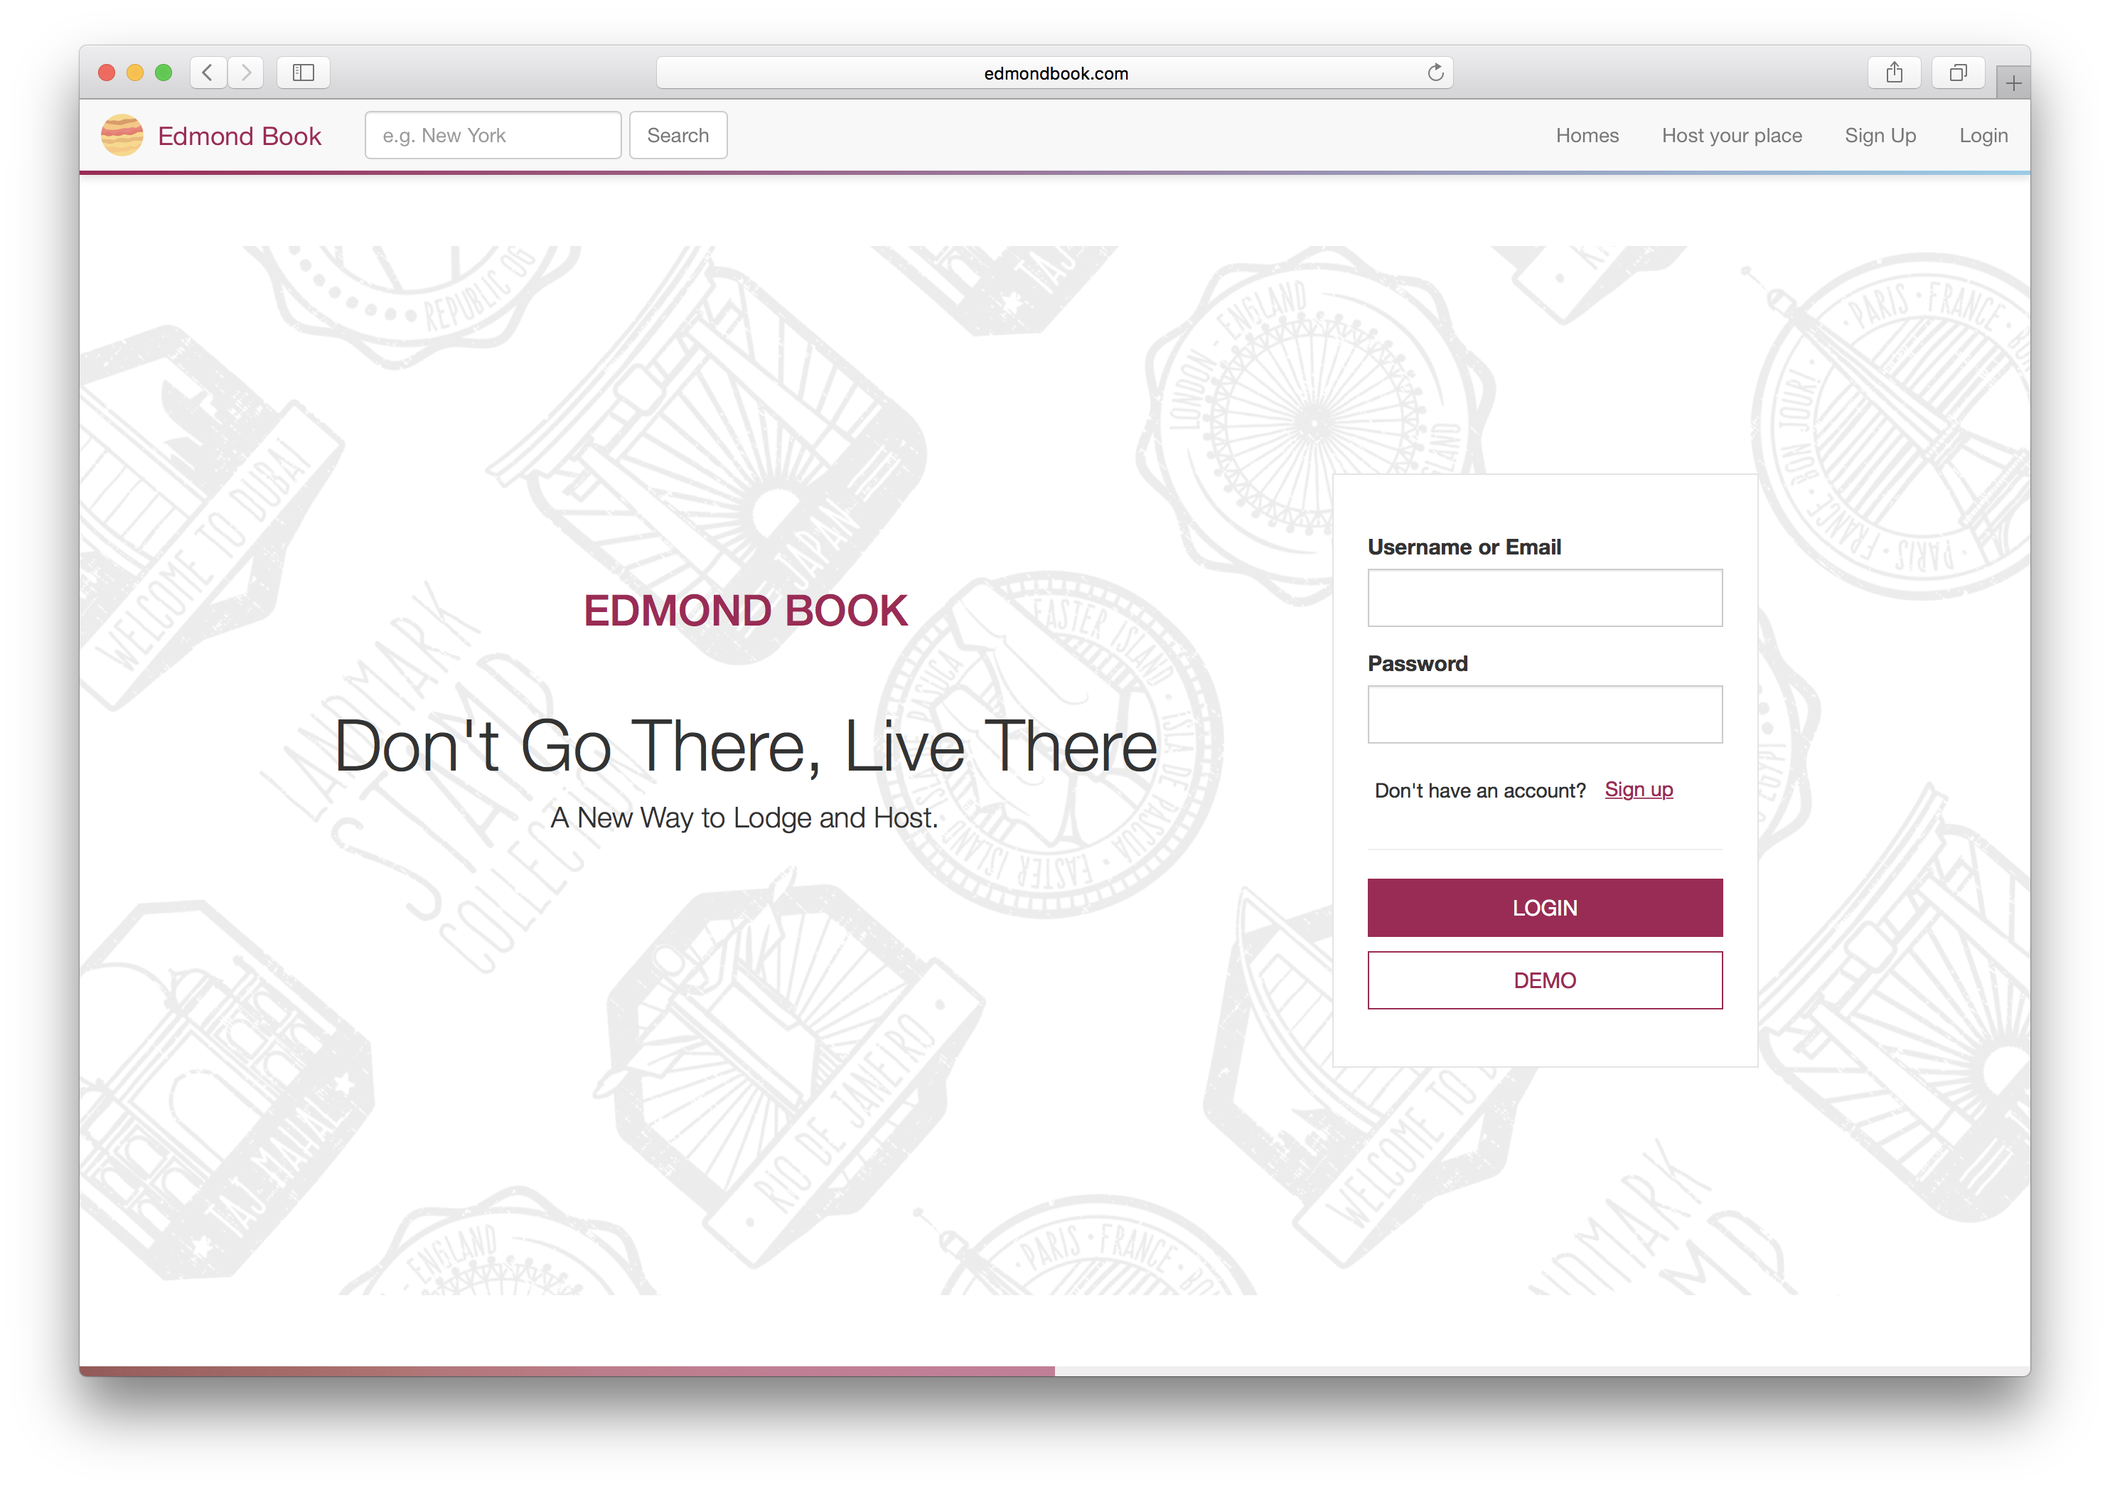
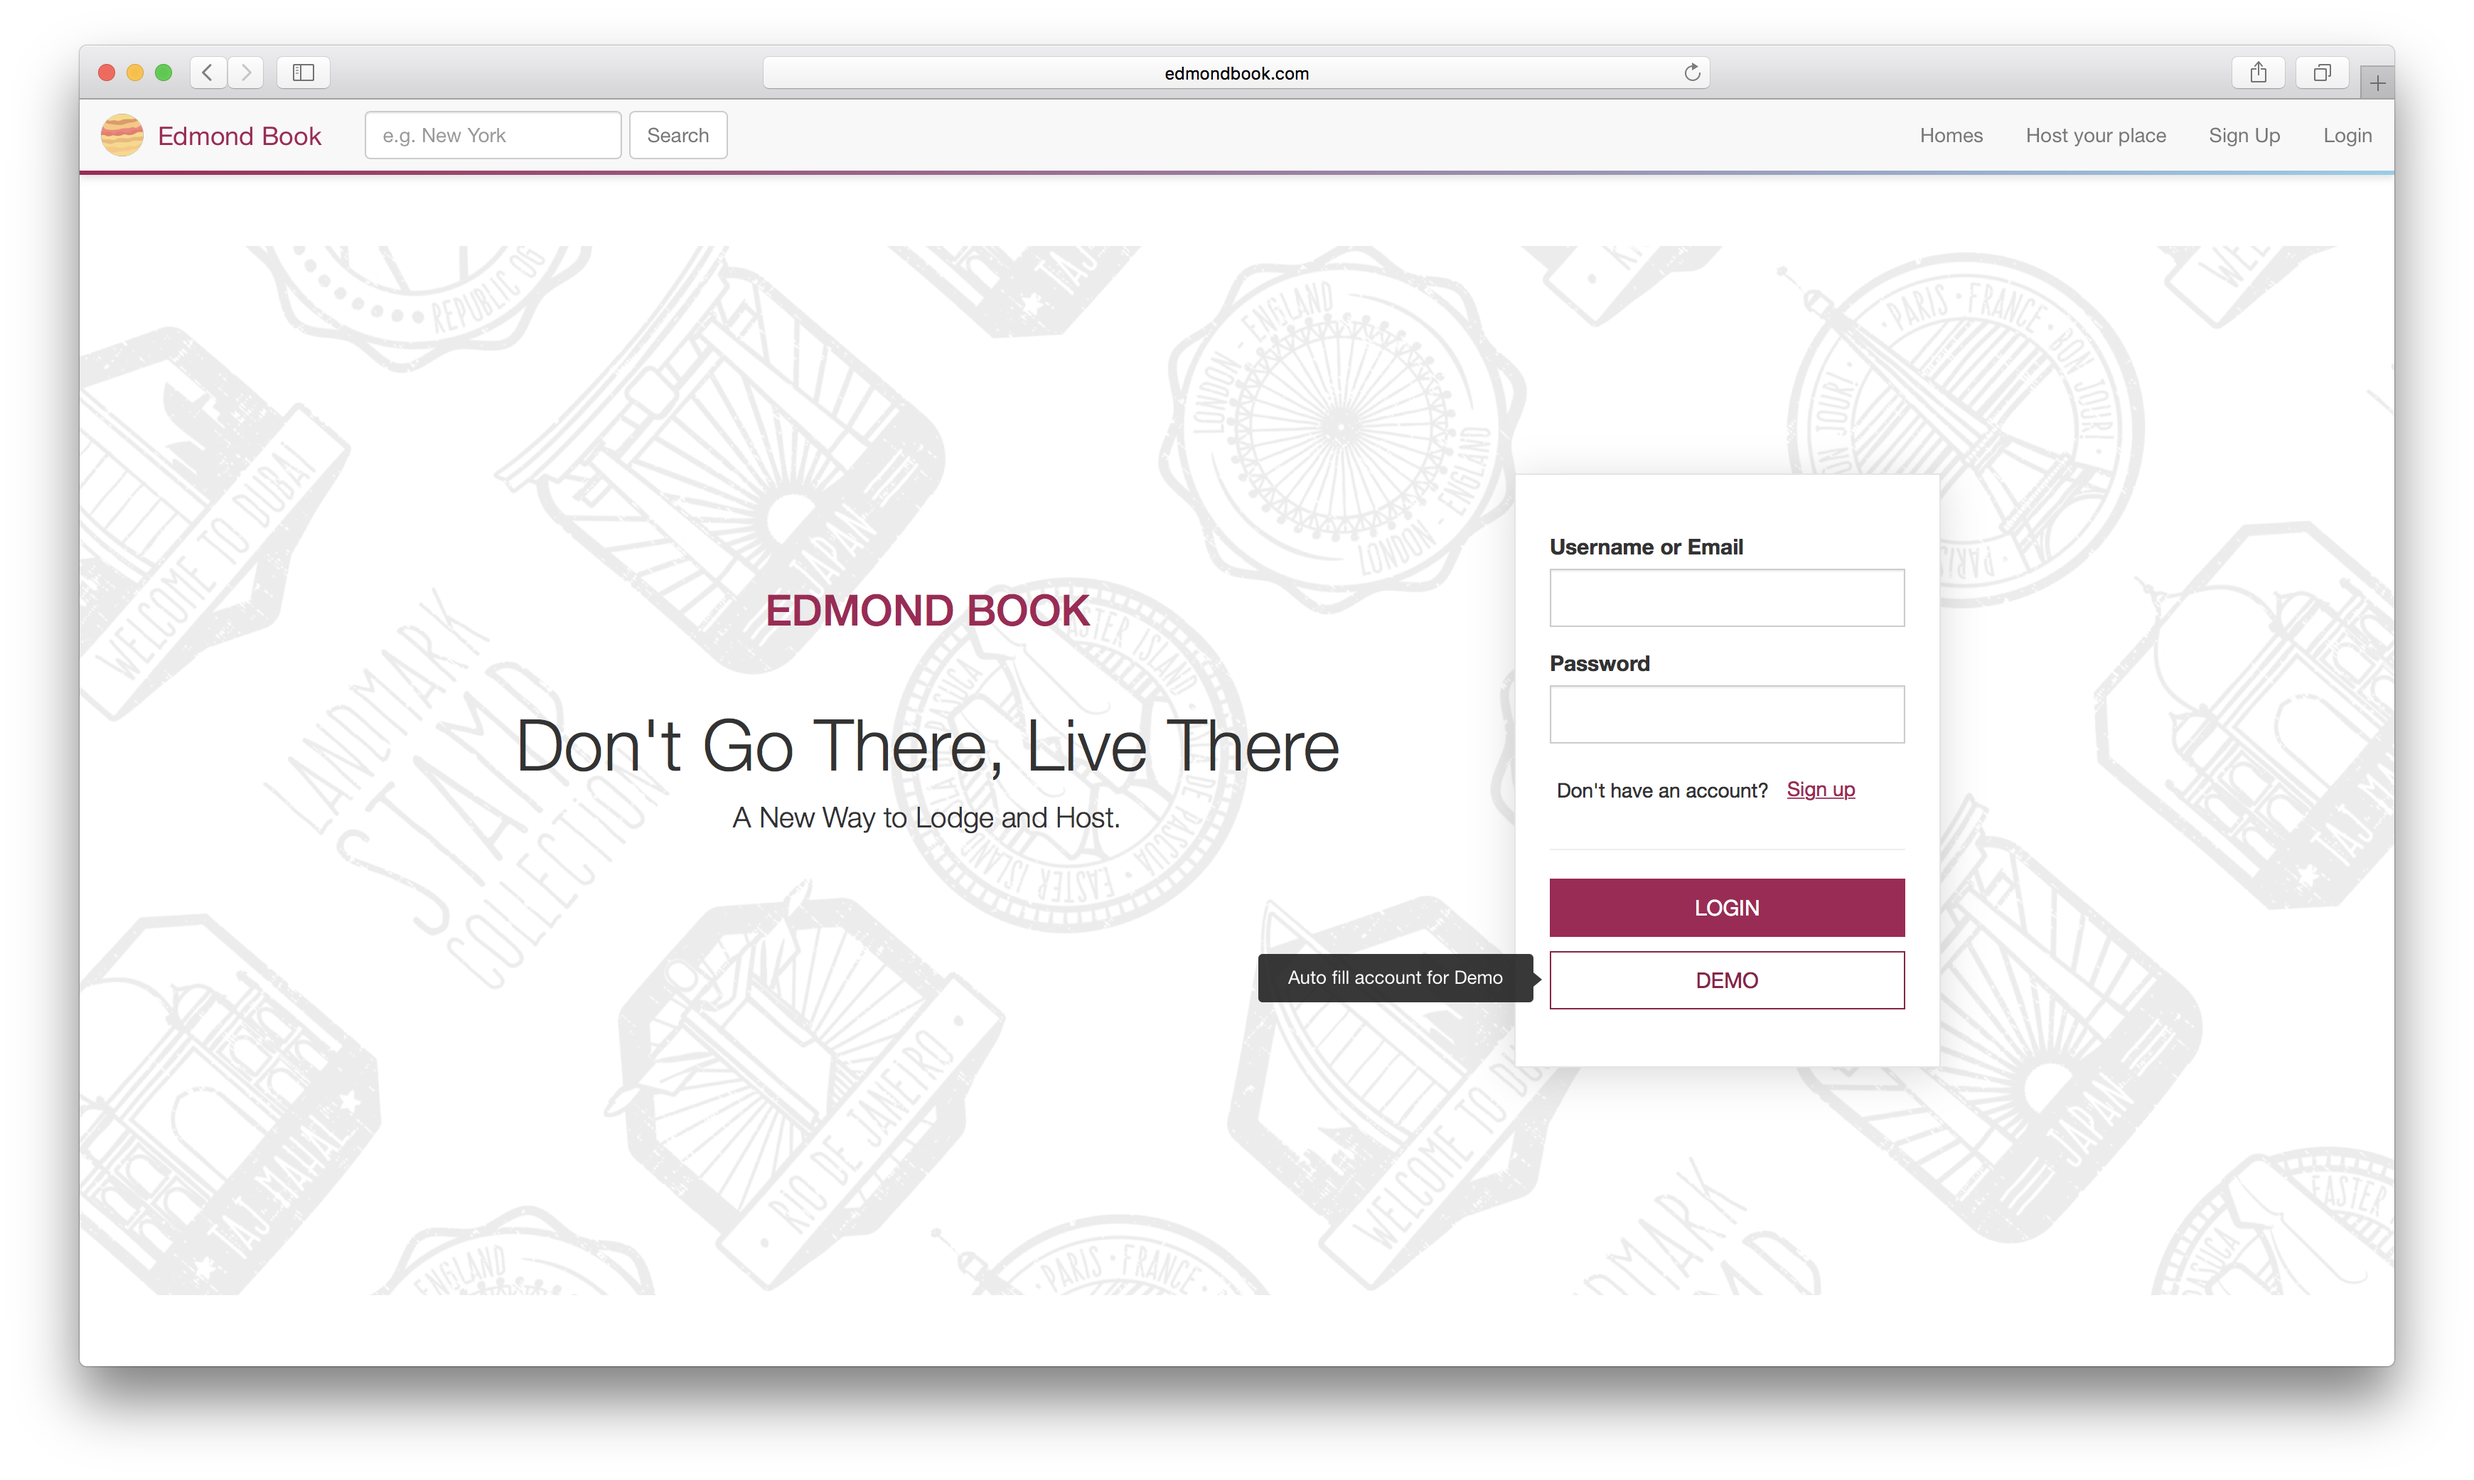
Add tooltip to book panel auto fill button. Update readme

diff --git a/frontend/components/homes/detail/DetailHomePage.js b/frontend/components/homes/detail/DetailHomePage.js
@@ -851,9 +851,18 @@ class DetailHomnePage extends React.Component {
                         onClick={e => {
                           this.autoFill(e);
                         }}
+                        data-tip="React-tooltip"
+                        data-for="book-autofill-tip"
                       >
                         Auto Fill
                       </button>
+                      <ReactTooltip
+                        id="book-autofill-tip"
+                        type="dark"
+                        effect="solid"
+                      >
+                        Auto fill data for Demo
+                      </ReactTooltip>
                     </div>
                   )}
                 </ReactCSSTransitionGroup>

diff --git a/README.md b/README.md
@@ -27,3 +27,21 @@ Node.js, Express, React, Redux, Sass, Webpack, Knex.js, Bookshelf
 On the homepage, from the navigation bar on the top, user can sign up or sign in account. A "Demo" account is provided. The logo on the top left can always redirect the user back to the homepage. The "Homes" button will lead users to browse all the homes which they can book. The "Host your place" button will lead users to the page where they can host their own homes.
 
 ![image of homepage](docs/img/homepage-navbar-signup.png)
+
+After signed in, the "Sign Up" and "Login" buttons will change to a badge which is the avatar of the user. The badge has a dropdown list including "Manage Host", "My Trips", "Wishlist", "Edit User Profile", "Log Out" options with respective functions.
+
+The website takes username or email address as unique identifier. Either one can be accpected for login. The password verification is done in encryption, no password will be saved in the database.
+
+![image of homepage after signed in](docs/img/homepage-navbar-logged.png)
+
+### Homes
+
+This page will show all the events from the database, supported with a search function. User can easily find a specific home typing keywords, (e.g. New York City). the keyword is case insensitive. On the right top corner of the home gallery card, there is a "Favorite" button. By clicking it you can put any home into your wishlist.
+
+![image of homes page](docs/img/homes.png)
+
+All the detail information of each home is shown on the individual home detail page. The information includes the home image, title, location, property type, host information, amenities, and so on.
+
+![image of home detail page](docs/img/home-detail.gif)
+
+User can book a place by chooing the check in date and check out date on the booking panel to the right.
